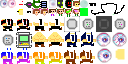
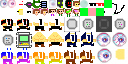
Fix mosquito spawning: create underground platform below computer for guaranteed spawn

Changed region(s): [[0.6875, 0.0, 0.875, 0.25]]

diff --git a/appLevel.js b/appLevel.js
@@ -1260,45 +1260,85 @@ function generateLevel()
                 {
                     new Computer(computerBottomLeft);
                     computerSpawned = true;
-                    
-                    // Spawn mosquitoes near computer (2 mosquitoes per level)
-                    if (levelMaxMosquitoes > 0 && totalMosquitoesSpawned < levelMaxMosquitoes)
+                }
+            }
+        }
+    }
+    
+    // Spawn mosquitoes near computer with underground platform (2 mosquitoes per level)
+    if (levelMaxMosquitoes > 0 && totalMosquitoesSpawned < levelMaxMosquitoes)
+    {
+        // Find computer position (use first computer in allComputers array)
+        let computerPos = null;
+        if (allComputers.length > 0 && allComputers[0] && !allComputers[0].destroyed)
+        {
+            computerPos = allComputers[0].pos;
+        }
+        else
+        {
+            // Fallback: spawn near checkpoint if no computer found
+            computerPos = checkpointPos.add(vec2(50, 0));
+        }
+        
+        if (computerPos)
+        {
+            const computerX = computerPos.x;
+            
+            // Find ground level at computer position
+            const groundTest = vec2(computerX, levelSize.y);
+            const groundRaycast = tileCollisionRaycast(groundTest, vec2(computerX, 0));
+            
+            if (groundRaycast)
+            {
+                const groundY = (groundRaycast.y - 0.5) | 0; // Top of ground tile
+                
+                // Create underground platform (5 tiles below ground)
+                const platformY = groundY + 5;
+                const platformWidth = 8; // 8 tiles wide
+                const platformHeight = 4; // 4 tiles tall clearance
+                const halfWidth = platformWidth / 2;
+                const platformTop = platformY - platformHeight;
+                
+                // Clear the area above the platform (air space for mosquitoes)
+                for(let x = computerX - halfWidth; x <= computerX + halfWidth; ++x)
+                {
+                    for(let y = platformTop; y < platformY; ++y)
                     {
-                        const computerCenterX = computerBottomLeft.x + 2; // Center of 4x4 computer
-                        const computerCenterY = computerBottomLeft.y + 2;
-                        const computerPos = vec2(computerCenterX, computerCenterY);
-                        
-                        // Find ground level at computer position for reference
-                        const groundTest = vec2(computerCenterX, levelSize.y);
-                        const groundRaycast = tileCollisionRaycast(groundTest, vec2(computerCenterX, 0));
-                        
-                        if (groundRaycast)
+                        const pos = vec2(x, y);
+                        if (pos.x >= 0 && pos.x < levelSize.x && pos.y >= 0 && pos.y < levelSize.y)
                         {
-                            const groundY = groundRaycast.y;
-                            const hoverHeight = 2.5; // Spawn 2.5 tiles above ground
-                            
-                            // Spawn 2 mosquitoes, one on each side of computer
-                            for(let i = 0; i < 2 && totalMosquitoesSpawned < levelMaxMosquitoes; i++)
-                            {
-                                // Offset horizontally from computer (left and right)
-                                const offsetX = (i == 0 ? -4 : 4); // 4 tiles left or right
-                                const spawnX = computerCenterX + offsetX;
-                                
-                                // Spawn in air above ground
-                                const spawnY = groundY - hoverHeight;
-                                const mosquitoPos = vec2(spawnX, spawnY);
-                                
-                                // Check if position is valid (empty space, not in wall)
-                                if (getTileCollisionData(mosquitoPos) <= 0 &&
-                                    getTileCollisionData(mosquitoPos.add(vec2(0, 0.5))) <= 0 &&
-                                    getTileCollisionData(mosquitoPos.add(vec2(0, -0.5))) <= 0)
-                                {
-                                    new Mosquito(mosquitoPos);
-                                    totalMosquitoesSpawned++;
-                                    totalEnemiesSpawned++;
-                                }
-                            }
+                            setTileCollisionData(pos, tileType_empty);
+                            setTileBackgroundData(pos, tileType_empty);
                         }
+                    }
+                }
+                
+                // Create the platform floor (solid ground)
+                for(let x = computerX - halfWidth; x <= computerX + halfWidth; ++x)
+                {
+                    const pos = vec2(x, platformY);
+                    if (pos.x >= 0 && pos.x < levelSize.x && pos.y >= 0 && pos.y < levelSize.y)
+                    {
+                        setTileCollisionData(pos, tileType_dirt);
+                        setTileBackgroundData(pos, tileType_dirt);
+                    }
+                }
+                
+                // Spawn 2 mosquitoes on the platform (one on each side)
+                for(let i = 0; i < 2 && totalMosquitoesSpawned < levelMaxMosquitoes; i++)
+                {
+                    // Offset horizontally from center (left and right)
+                    const offsetX = (i == 0 ? -2 : 2); // 2 tiles left or right
+                    const spawnX = computerX + offsetX;
+                    const spawnY = platformY - 1; // One tile above platform
+                    const mosquitoPos = vec2(spawnX, spawnY);
+                    
+                    // Check if position is valid (empty space)
+                    if (getTileCollisionData(mosquitoPos) <= 0)
+                    {
+                        new Mosquito(mosquitoPos);
+                        totalMosquitoesSpawned++;
+                        totalEnemiesSpawned++;
                     }
                 }
             }
